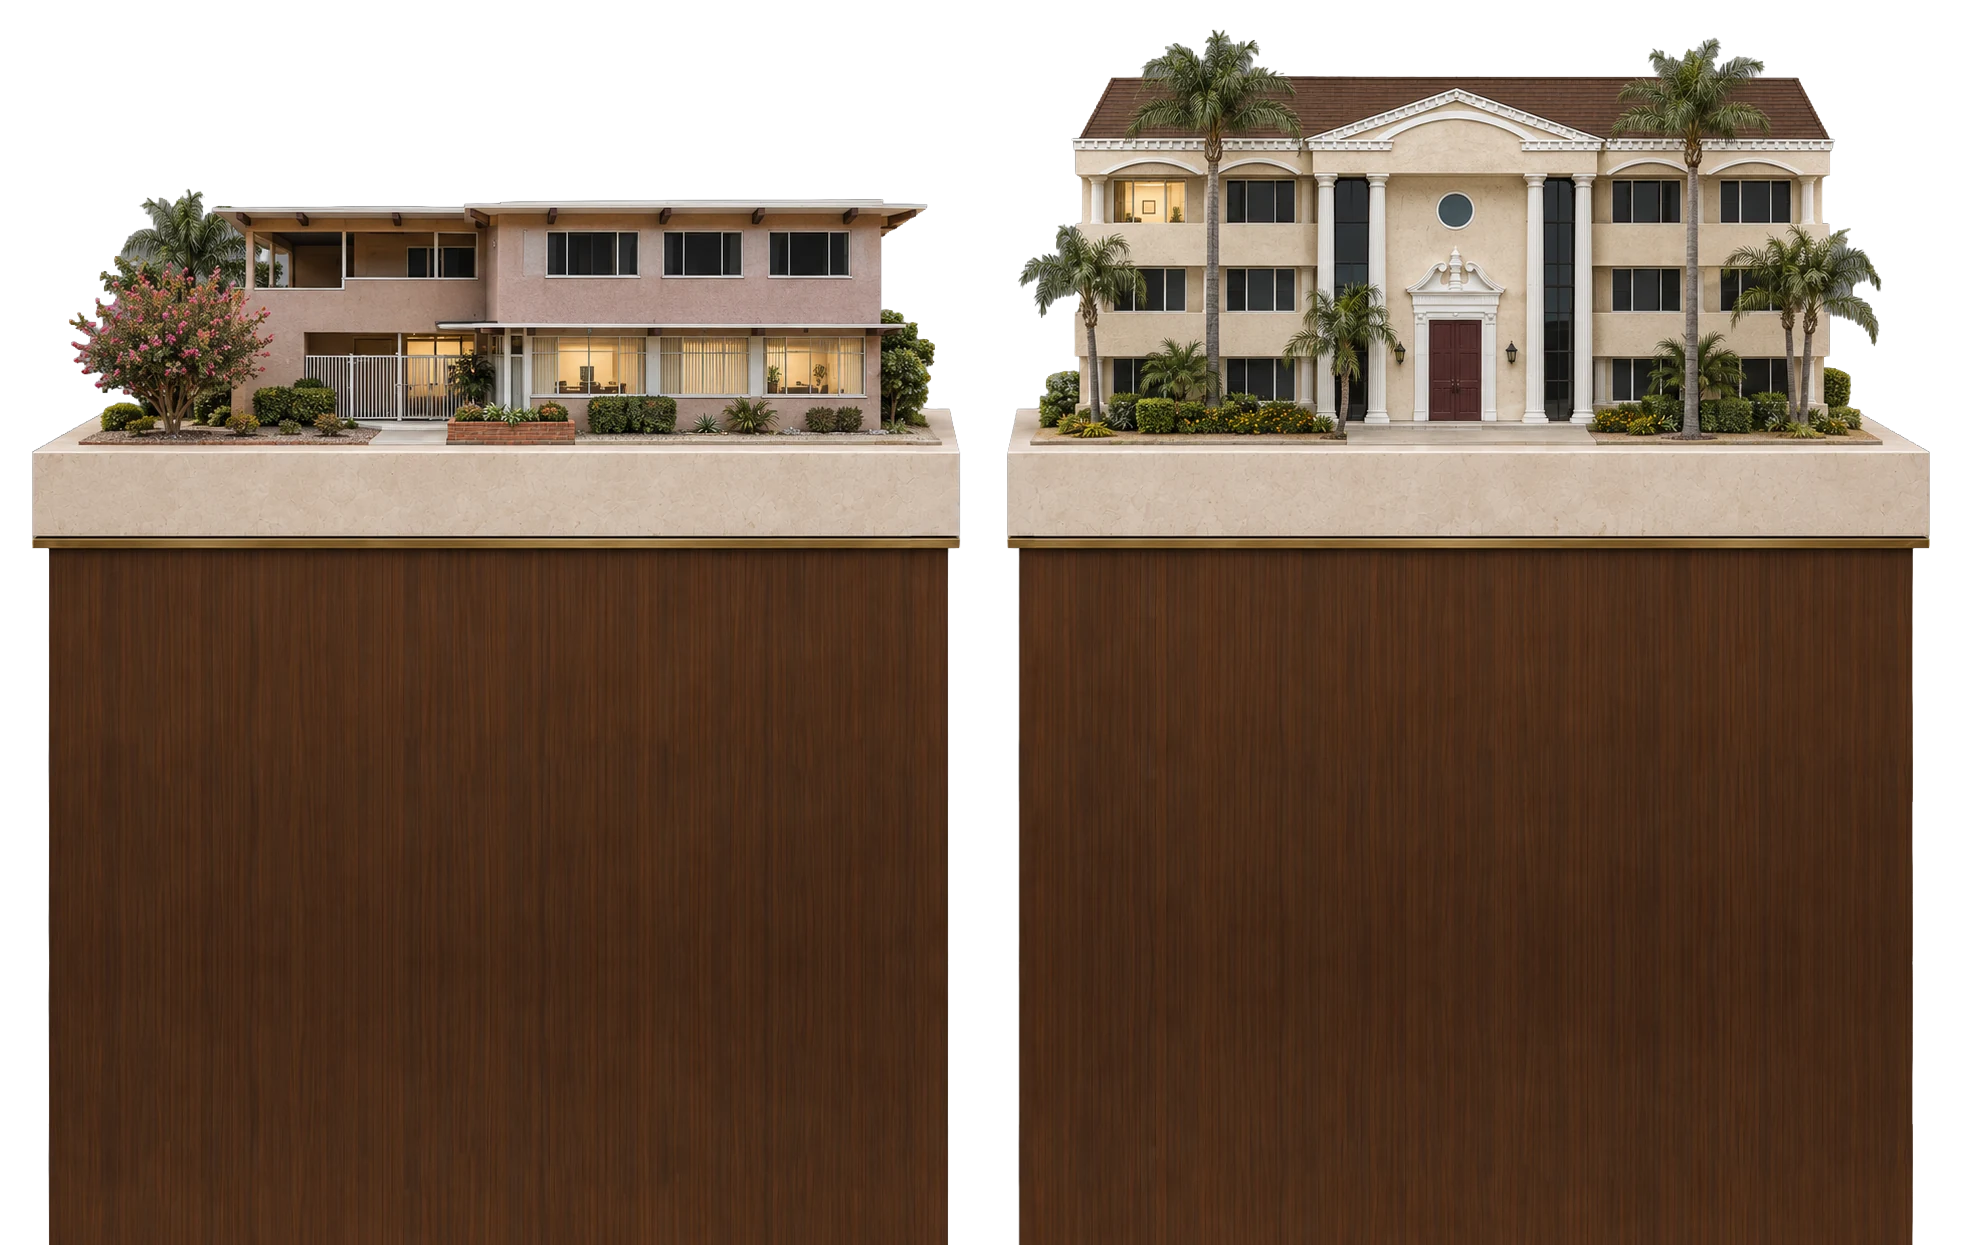
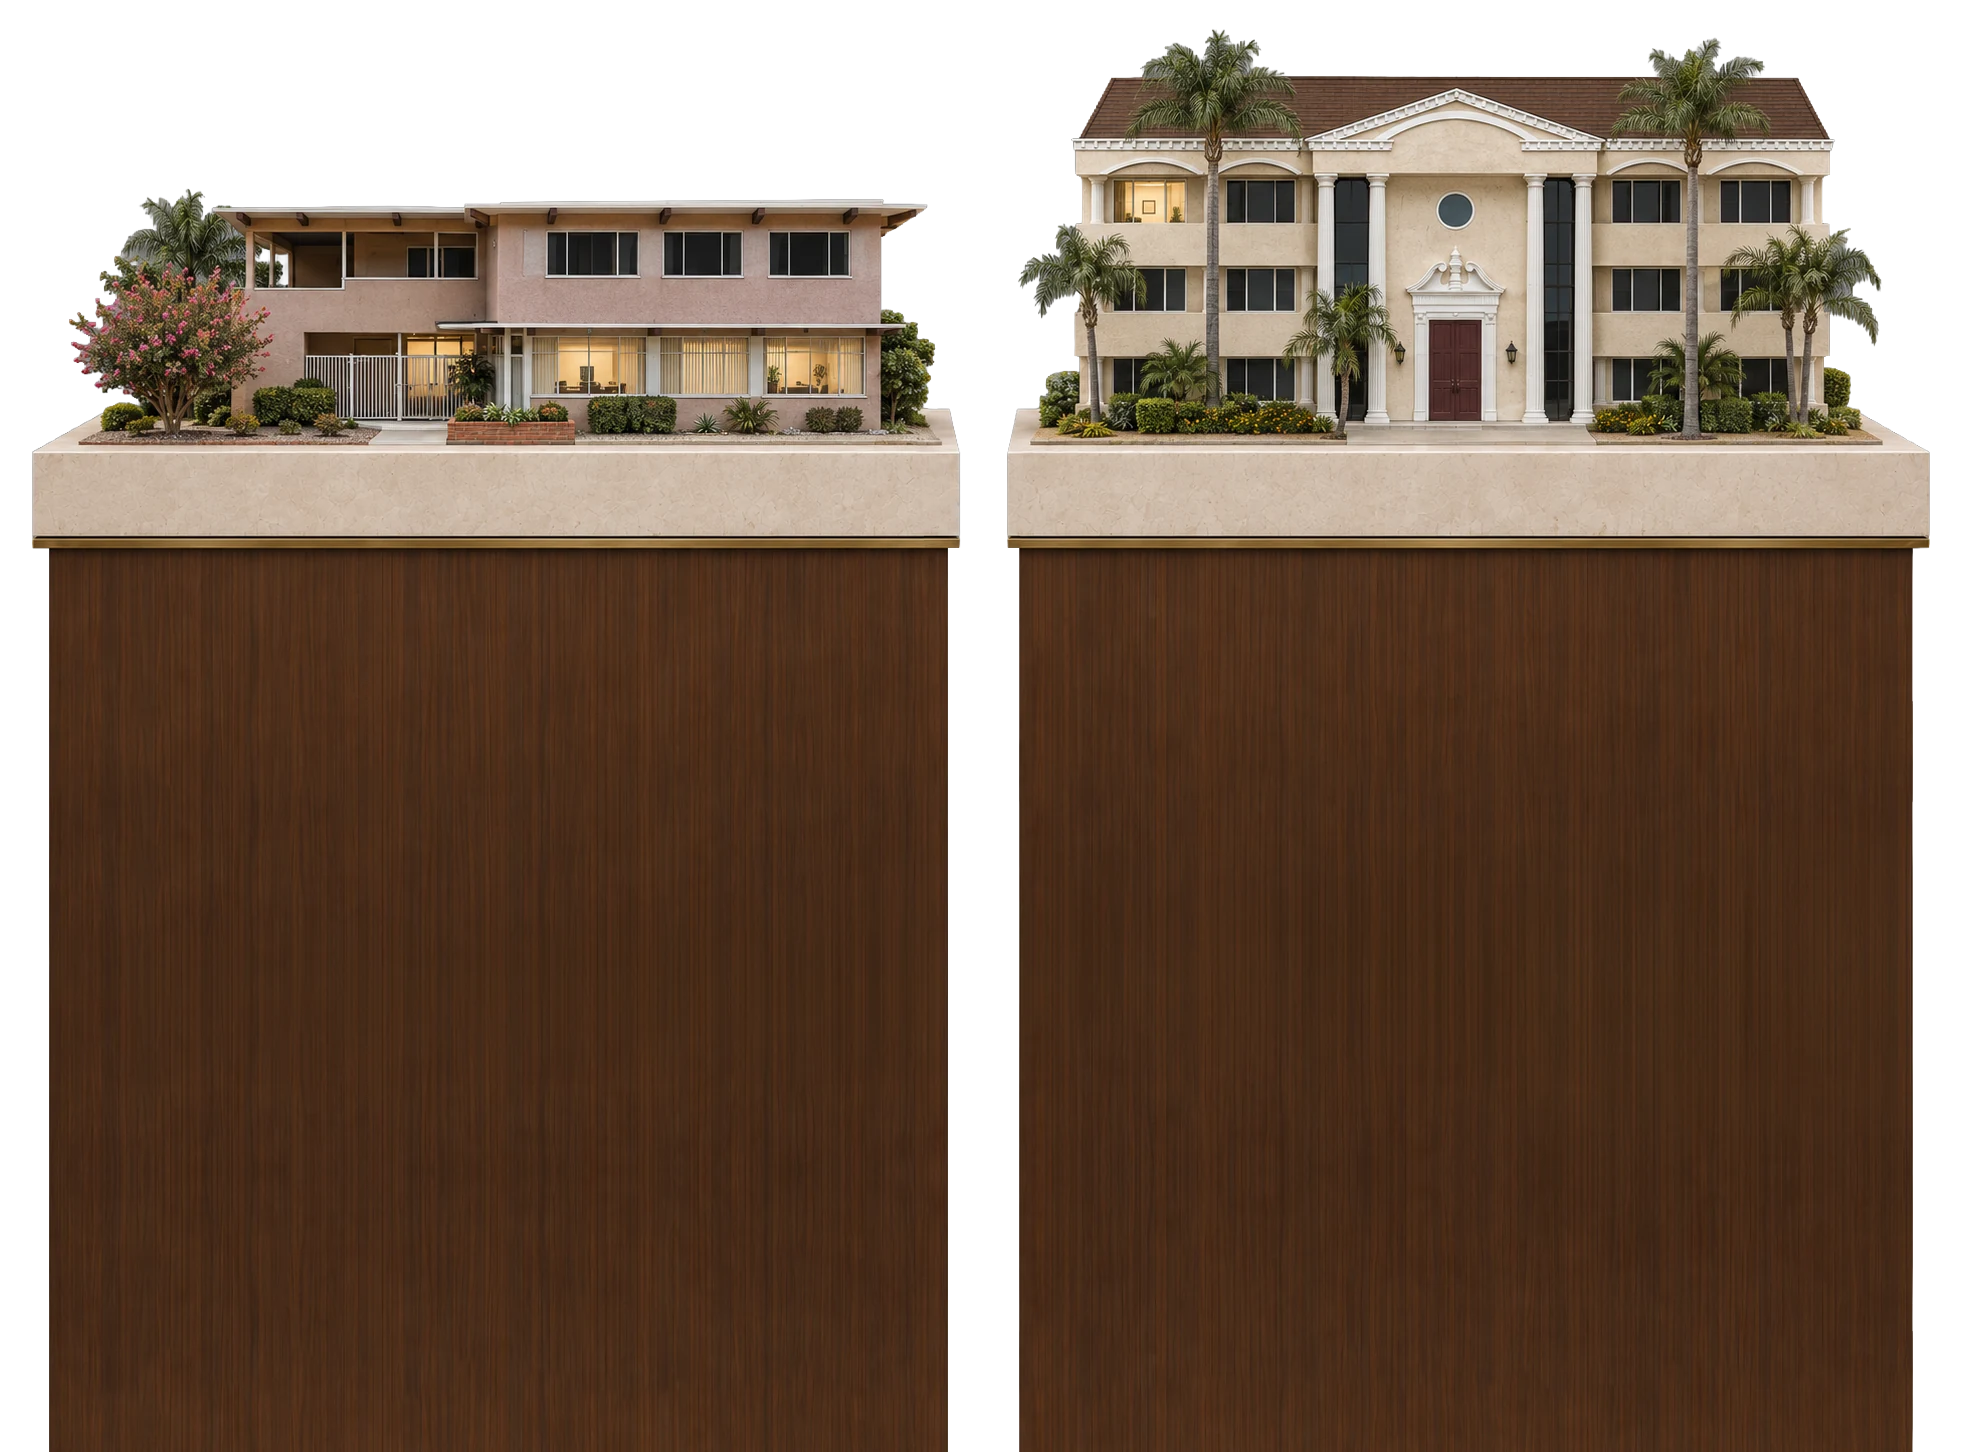
Expo: перезалив 1973-го с длинными стойками — обе величины пересчитаны по файлу.
Эльдар удлинил тумбы и перевыгрузил под тем же именем (2026-09-24). Кадр
стал 1962×1452 вместо 1962×1245, и от этого поехали обе величины, которыми
рендер посажен в зал.

TOP 0.335 → 0.2865: линия прилавка теперь на строке 416 из 1452.
L73_W 900 → 720: ниже линии прилавка в кадре 0.7135 высоты, а в зале от
прилавка до пола 380 единиц, и 380 / (0.7401 × 0.7135) = 720.

Ни одна из них не подбирается на глаз — обе замеряются по самому файлу, и
при следующей перезаливке их надо пересчитать снова. Формула записана в
комментарии у L73_W, чтобы не выводить её заново.

Changed region(s): [[0.0, 0.0305, 0.9949, 0.4578]]

diff --git a/expo/expo.html b/expo/expo.html
@@ -1477,12 +1477,14 @@ const BENCH_BREAKS = [1700, 7350, 9250, 13100, 16900, 22280]
 /* 1973: no counter — the two labs stand on their own stones, the way the nine
    do at 1979, and the counters stop short of them on both sides (Eldar,
    2026-09-11). The small joint that used to sit here (3345) is gone with it. */
-/* 900, А НЕ 760. Новый рендер двух лабораторий содержит тумбы целиком, до
-   пола: от линии прилавка вниз в нём 0.665 высоты, а в зале от прилавка (700)
-   до пола (1080) — 380 единиц. Ширина, при которой эти две величины сходятся,
-   и есть 900: 900 × 0.6345 (пропорция кадра) × 0.665 = 380. Рендер не тянут —
-   под него подводят геометрию (Эльдар, 2026-09-24: «прям как есть ставь»). */
-const L73_W = 900;   // the pair of plinths, in world units
+/* ШИРИНА СЧИТАЕТСЯ ИЗ КАДРА, А НЕ ПОДБИРАЕТСЯ. Рендер содержит тумбы целиком,
+   до пола; в зале от прилавка (700) до пола (1080) ровно 380 единиц. Значит
+   ширина задана однозначно: L73_W × (H/W) × (доля кадра ниже линии прилавка)
+   = 380. Эльдар удлинил стойки, кадр стал 1962×1452, линия прилавка на строке
+   416 из 1452 — ниже неё 0.7135 высоты, и 380 / (0.7401 × 0.7135) = 720.
+   Пересчитывать при каждой перезаливке: обе величины замеряются по файлу
+   (2026-09-24). */
+const L73_W = 720;   // the pair of plinths, in world units
 BENCH_BREAKS.push({x: SHIFT(4400), half: L73_W / 2 + 440, l73: true});   // the counters stand well back from the two stones — Eldar hatched their ends away (2026-09-11)   // re-centred on the beat once applyCut has spaced it
 BENCH_BREAKS.push({x: SHIFT(24870), half: 560});   // the BruxZir Factory line replaces the table
 /* the counters stop two column-widths clear of the doorway's pilasters — on
@@ -8656,9 +8658,9 @@ function drawLabs73(){
   if (!sp) return;
   if (X73 == null){ const b = BEATS.find(b2 => b2.y === '1973'); X73 = b ? b.x : SHIFT(4400); }
   if (Math.abs(cam.x - X73) > CULL_BAY) return;
-  /* 0.335 — доля высоты кадра над линией прилавка, замерена по самому файлу:
-     тумбы выходят на полную ширину на строке 417 из 1245. */
-  const kR = k(120), TOP = 0.335;
+  /* 0.2865 — доля высоты кадра над линией прилавка, замерена по файлу: тумбы
+     выходят на полную ширину на строке 416 из 1452. */
+  const kR = k(120), TOP = 0.2865;
   const wR = L73_W * kR * SS, hR = wR * sp.h / sp.w;
   const yBench = py(CFG.benchY, kR), yFoot = yBench + hR * (1 - TOP);
   const xR = px(X73, kR) - wR / 2;
@@ -9935,7 +9937,7 @@ const PHOTO_TEX = {};
 /* the skin's files are re-cut under the same names as the room is tuned, so a
    browser that has already seen one keeps serving it back; every photo asset
    carries the build stamp and a new cut is fetched the moment it exists */
-const ASSET_V = '20260924-labs73';
+const ASSET_V = '20260924-labs73b';
 const vurl = p => p + (p.includes('?') ? '&' : '?') + 'v=' + ASSET_V;
 /* EVERY PHOTOGRAPH IS SERVED AS WEBP. The names below still say .png and .jpg
    because that is what the file in the studio is; on the wire it is the webp
